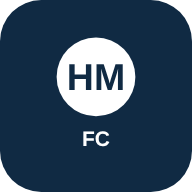
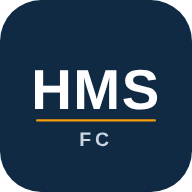
앱 첫 화면과 아이콘을 HMS로 변경
- 앱을 열 때 HMS 첫 화면을 잠깐 보여 줌 (누르면 바로 닫힘, 한 번 연 뒤에는 생략)
- 앱 아이콘을 HMS / FC 디자인으로 교체, 안드로이드용 maskable 아이콘 추가
- 버전 2026.10.14-16, 캐시 v16

Claude-Session: https://claude.ai/code/session_01QNoBcz2N58FXZCJvgxJco8

Changed region(s): [[0.1562, 0.1875, 0.8438, 0.7812]]

diff --git a/index.html b/index.html
@@ -122,11 +122,18 @@ label{display:block;font-size:13px;color:var(--sub);margin-bottom:4px}
 .sheet-head{display:flex;align-items:center;gap:8px;margin-bottom:12px}
 .sheet-head h2{flex:1;margin:0;font-size:18px}
 @media(min-width:700px){.sheet-bg{align-items:center}.sheet{border-radius:20px}}
+/* 앱 첫 화면 (HMS) */
+.splash{position:fixed;inset:0;z-index:100;background:#102a43;color:#fff;display:flex;flex-direction:column;align-items:center;justify-content:center;transition:opacity .45s}
+.splash.hide{opacity:0;pointer-events:none}
+.splash .logo{font:800 64px/1 "Liberation Sans",Arial,Helvetica,sans-serif;letter-spacing:6px}
+.splash .bar{width:150px;height:4px;border-radius:2px;background:#f59e0b;margin:16px 0 12px}
+.splash .sub{font-size:16px;color:#cbd5e1;letter-spacing:1px}
 .toast{position:fixed;left:50%;bottom:calc(96px + env(safe-area-inset-bottom));transform:translateX(-50%);background:#102a43;color:#fff;padding:10px 16px;border-radius:999px;font-size:14px;z-index:60;opacity:0;transition:opacity .2s;pointer-events:none}
 .toast.show{opacity:1}
 </style>
 </head>
 <body>
+<div class="splash" id="splash" onclick="hideSplash()"><div class="logo">HMS</div><div class="bar"></div><div class="sub">현미숙 FC 영업비서</div></div>
 
 <nav class="sidebar" id="sidebar">
   <div class="brand">현미숙 FC 영업비서</div>
@@ -258,7 +265,7 @@ label{display:block;font-size:13px;color:var(--sub);margin-bottom:4px}
 <script>
 /* ───────── 데이터 저장 (이 기기의 브라우저 안에 저장) ───────── */
 const KEY = 'hmsfc_app_v2';
-const APP_VERSION = '2026.10.14-15';
+const APP_VERSION = '2026.10.14-16';
 const STAGES = ['관심', '상담중', '제안', '계약', '유지관리'];
 const CEO_ISSUES = ['가업승계', '퇴직금 재원', '법인세 절감', '대표 보장', '임원 보장', '직원 복리후생', '가지급금 정리', '주식 가치평가'];
 const PAGES = {home: '홈', customers: '고객', dbleads: 'DB고객', prospects: '가망고객', ceo: 'CEO 고객', goals: '목표', perf: '실적'};
@@ -1246,6 +1253,13 @@ function resetAll() {
 /* ───────── 시작 ───────── */
 showPage(location.hash.slice(1) || 'home');
 loadLibs();
+// 첫 화면: 앱을 처음 열 때만 잠깐 보여 주고 사라집니다 (누르면 바로 닫힘)
+function hideSplash() { const s = $('splash'); if (!s) return; s.classList.add('hide'); setTimeout(() => s.remove(), 500); }
+(() => {
+  let seen = false;
+  try { seen = sessionStorage.getItem('hmsSplash') === '1'; sessionStorage.setItem('hmsSplash', '1'); } catch (e) {}
+  if (seen) $('splash').remove(); else setTimeout(hideSplash, 1200);
+})();
 
 // 앱 설치·오프라인 지원 (https 주소에서만 동작, 파일을 직접 열면 건너뜀)
 // 새 버전이 올라오면 앱을 열거나 다시 볼 때 확인하고, 받으면 자동으로 한 번 새로고침합니다.

diff --git a/sw.js b/sw.js
@@ -1,7 +1,7 @@
 // 앱 화면 파일을 기기에 저장해 두어 인터넷이 없어도 열리게 합니다.
 // 새 버전을 올릴 때는 아래 버전 숫자를 올려 주세요. (예: v2 → v3)
-const CACHE = 'hmsfc-v15';
-const FILES = ['./', './index.html', './manifest.json', './icon.svg', './icon-192.png', './icon-512.png'];
+const CACHE = 'hmsfc-v16';
+const FILES = ['./', './index.html', './manifest.json', './icon.svg', './icon-192.png', './icon-512.png', './icon-maskable-512.png'];
 
 self.addEventListener('install', e => {
   e.waitUntil(caches.open(CACHE).then(c => c.addAll(FILES.map(f => new Request(f, {cache: 'reload'})))).then(() => self.skipWaiting()));
